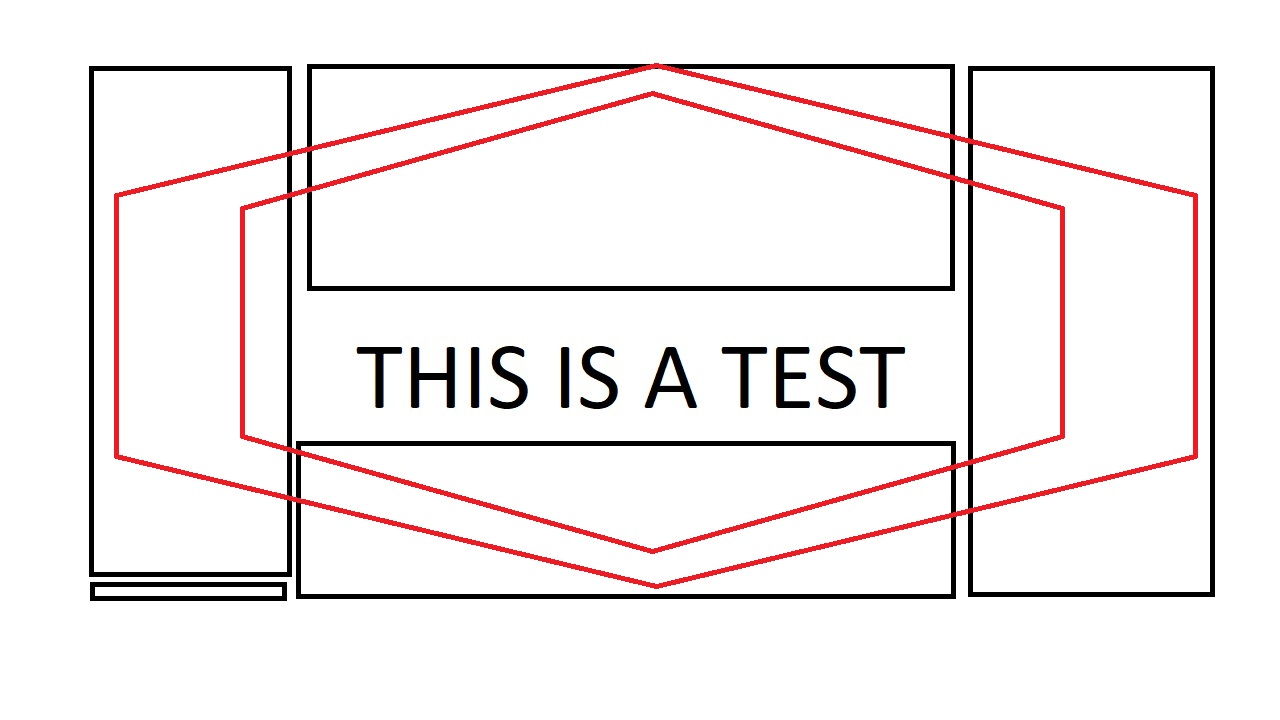
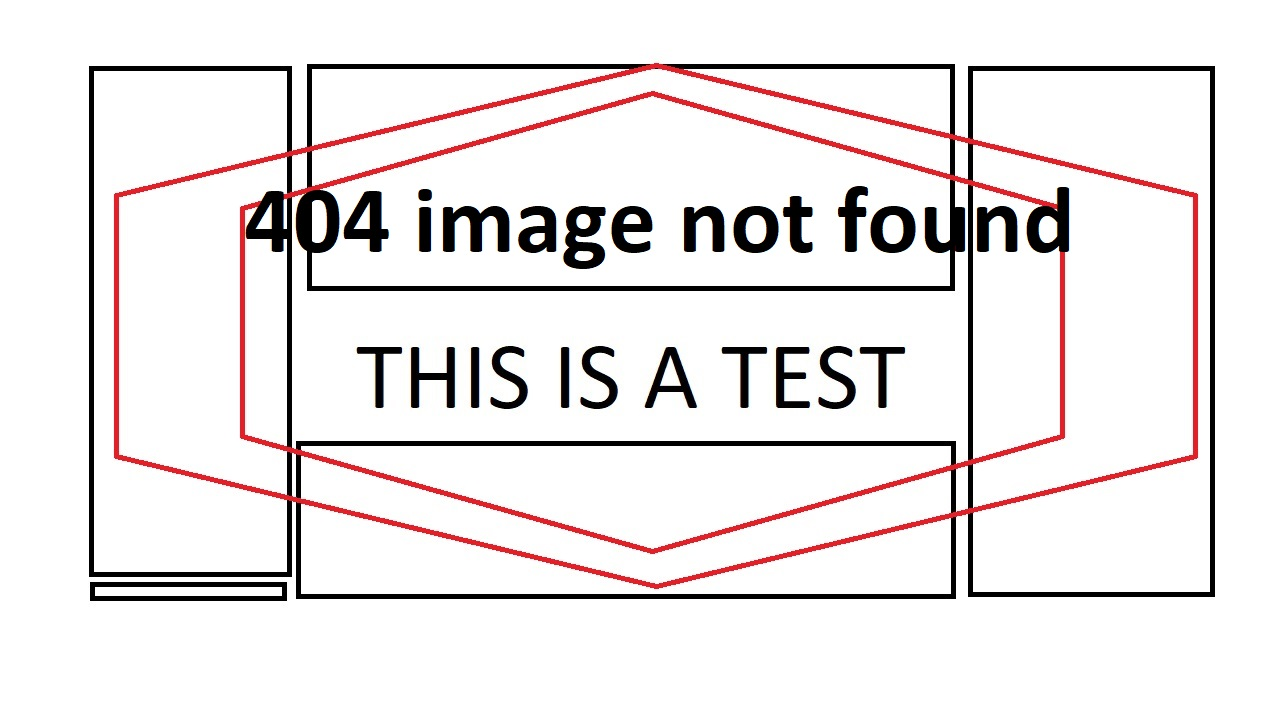
Added initial styling to item, search and results. Adjusted code to accomodate tables containing different fields when displayed in singular result. Added text to 404 image.

Changed region(s): [[0.1875, 0.2444, 0.8438, 0.3972]]

diff --git a/smartcity299/templates/results.html b/smartcity299/templates/results.html
@@ -1,16 +1,47 @@
-<!DOCTYPE HTML>
-
-<html>
-<head>
+{% extends "base_minimal.html" %}
+{% load staticfiles %}
+{% block head %}
     <title>Resultset</title>
-</head>
+    <link rel="stylesheet" type="text/css" href="{% static 'css\searchResults.css' %}">
+{% endblock %}
 
-<body>
-    <div> These are the results for your search query "{{queryReq}}": <br /> </div>
-    {% for result in resultSet %}
-        <a href='{% url "details" result.retName result.name %}'>LINK{{result.name}}</a> <br />
-    {% empty %}
-        <p>It appears that there a no results based on your query and user type preference, please try searching again.</p>
-    {% endfor %}
-</body>
-</html>
+{% block content %}
+    <container class="container">
+        <div class="box"> 
+            <h1>Results</h1>
+            {% if queryReq|length == 0 %}
+                <h2>Searching for all relevant items. </h2><br />
+            {% else %}
+                <h2>Searching for "{{queryReq}}". </h2><br />
+            {% endif %}
+
+            <div class="resultSet"> <!--"col-xs-12 col-sm-8 col-md-8-->
+                <table>
+                    <tr>
+                        <th id="name">Name</th>
+                        <th id="type">Type</th>
+                        <th id="address">Address</th>
+                    </tr>
+                    {% for result in resultSet %}
+                    <tr class="result">
+                        <td><a href='{% url "details" result.retName result.name %}'>{{result.name|title}}</a> <br /></td>
+                        <td>{{result.retName}}</td>
+                        <td>{{result.address}}</td>
+                    </tr>
+
+
+                    {% empty %}
+                    <p>It appears that there are no results based on your search and user type preference, please try searching again.</p>
+                    {% endfor %}
+                </table>
+            </div>
+
+            <!--<div class="col-xs-12 col-sm-4 col-md-4 map">
+                <p>MAP GOES HERE</p>
+            </div>-->
+            
+        </div>
+        
+    </container>
+    
+{% endblock %}

diff --git a/smartcity299/templates/details.html b/smartcity299/templates/details.html
@@ -1,16 +1,32 @@
 {% extends "base_generic.html" %}
 {% load staticfiles %}
+{% load app_filters %}
 {% block head %}
-    <title>Service {{serviceDetails.name}}</title>
+    <title>{{serviceDetails.name|title}}</title>
+    <link rel="stylesheet" type="text/css" href="{% static 'css\searchDetails.css' %}">
 {% endblock %}
 
 {% block content %}
-    <div>
-        Name of place: {{serviceDetails.name}} <br />
-        Desc of place: {{serviceDetails.desc}} <br />
-        City of service: {{serviceDetails.city}} <br />
-        <!-- THIS CHECKS IF THE IMAGE EXISTS AND RETURNS A 404 IF IT DOESNT-->
-        <img src="{{ STATIC_URL }}/static/images/serviceImg/{{serviceDetails.name}}.jpg/" onerror="this.src='{{ STATIC_URL}}/static/images/serviceImg/404.jpg/'"/>
-        <!-- BE AWARE THAT THE IMAGE NAME MUST MATCH THE PLACE NAME, MAKE IT SO WHEN INSERTING-->
-    </div>
+    <container class="container">
+        <div class="box">
+            <div class="col-xs-12 col-sm-7 col-md-7 details">
+                <h1>{{serviceDetails.name|title}}</h1> <br />
+                <div id="inner">
+                    Address: {{serviceDetails.address}} <br />
+                    City: {{serviceDetails.city}} <br />
+                    {% for detail in serviceDetails %}
+                        {% if detail != "city" and detail != "desc" and detail != "name" and detail != "usertype" and detail != "id" and detail != "address" %}
+                            <span>{{detail|title}} : {{serviceDetails|get_model_val:detail}}</span><br />
+                        {% endif %}
+                    {% endfor %}
+                    Desc of place: {{serviceDetails.desc}} <br />
+                </div>
+            </div>
+            <div class="col-xs-12 col-sm-5 col-md-5 image">
+                <img src="{{ STATIC_URL }}/static/images/serviceImg/{{serviceDetails.name}}.jpg/" onerror="this.src='{{ STATIC_URL}}/static/images/serviceImg/404.jpg/'" />
+            </div>
+            
+        </div>
+    </container>
+   
 {% endblock %}

diff --git a/smartcity299/templates/search.html b/smartcity299/templates/search.html
@@ -2,14 +2,24 @@
 {% load staticfiles %}
 {% block head %}
     <title>Home page title</title>
+    <link rel="stylesheet" type="text/css" href="{% static 'css/searchMain.css' %}">
 {% endblock %}
 
 {% block content %}
-    <p> This is the home page text</p>
-    <form method="GET" action="/search/results/">
-        <input type="text" id="searchBox" name="sQuery" placeholder="searchbox" />
-        <input type="submit" value="Search" />
-    </form>
+    <container class="container">
+        <div id="searchBox" class="col-md-10">
+            <h1>Search</h1>
+            <form id="searchForm" method="GET" action="/search/results/">
+                <div class="input-group">
+                        <input type="text" id="searchField" name="sQuery" placeholder="Search..." />
+                        <input type="submit" id="searchBtn" value="Search" />
+                </div>
+                
+            </form>
+        </div>
+    </container>
+    
+    
     {% if messages %}
         {% for message in messages %}
             <span class="errMessage"> {{message}} </span><br />

diff --git a/smartcity299/static/css/searchMain.css b/smartcity299/static/css/searchMain.css
@@ -1,0 +1,39 @@
+body{
+    background-color: grey;
+}
+
+#searchBox{
+    margin-left: 7%;
+    background-color: white;
+    width: 85%;
+    min-width: 800px;
+}
+
+#searchBox h1{
+    background-color: red;
+    text-align: center;
+    width: 50%;
+    margin: 0 auto;
+    margin-bottom: 10px;
+}
+
+.input-group{
+    background-color: green;
+    width: 80%;
+    min-width: 700px;
+    margin: 0 auto;
+}
+
+#searchField{
+    padding-left: 15px;
+    width: 90%;
+    height: 60px;
+    font: 35px Arial, Helvetica, sans-serif;
+}
+
+#searchBtn{
+    position: absolute;
+    width: 10%;
+    min-width: 70px;
+    height: 60px;
+}

diff --git a/smartcity299/static/css/searchResults.css b/smartcity299/static/css/searchResults.css
@@ -1,0 +1,30 @@
+body {
+    background-color: grey;
+}
+
+.box{
+    background-color: white;
+    margin-left: 5%;
+    width: 90%;
+    min-width: 750px;
+}
+
+.resultSet{
+    background-color: red;
+}
+
+.result{
+    border-style: solid;
+    border-color: black;
+    border-width: 2px 2px 2px 2px;
+}
+
+table{
+    width: 100%;
+}
+
+
+.map{
+    background-color: black;
+    height: 100%;
+}

diff --git a/smartcity299/static/css/searchDetails.css b/smartcity299/static/css/searchDetails.css
@@ -1,0 +1,27 @@
+body {
+    background-color: grey;
+}
+
+.box{
+    background-color: white;
+    margin-left: 5%;
+    width: 90%;
+    min-width: 600px;
+}
+
+.details{
+    background-color: white;
+}
+
+.image{
+    margin-top: 20px;
+}
+
+#inner{
+    margin-left: 20px;
+}
+
+img{
+    width: 100%;
+    height: auto;
+}

diff --git a/smartcity299/apps/search/views.py b/smartcity299/apps/search/views.py
@@ -5,7 +5,7 @@ from django.http import HttpResponse
 from django.template import Context
 from django.db.models.query import EmptyQuerySet
 from django.apps import apps
-
+from django.forms.models import model_to_dict
 from django.contrib import messages
 
 def drawSearch(request):
@@ -41,5 +41,6 @@ def details(request, serviceType, serviceName):
 		return redirect("/")
 	model = apps.get_app_config('search').get_model(serviceType)
 	serviceDetails = model.objects.get(name=serviceName)
+	serviceDetails = model_to_dict(serviceDetails)
 	context = { 'serviceDetails' : serviceDetails }
 	return render(request, 'details.html', context)

diff --git a/smartcity299/apps/search/templatetags/app_filters.py b/smartcity299/apps/search/templatetags/app_filters.py
@@ -1,0 +1,6 @@
+from django import template
+register = template.Library()
+
+@register.filter(name = 'get_model_val')
+def get_model_val(self, value):
+	return self[value]
